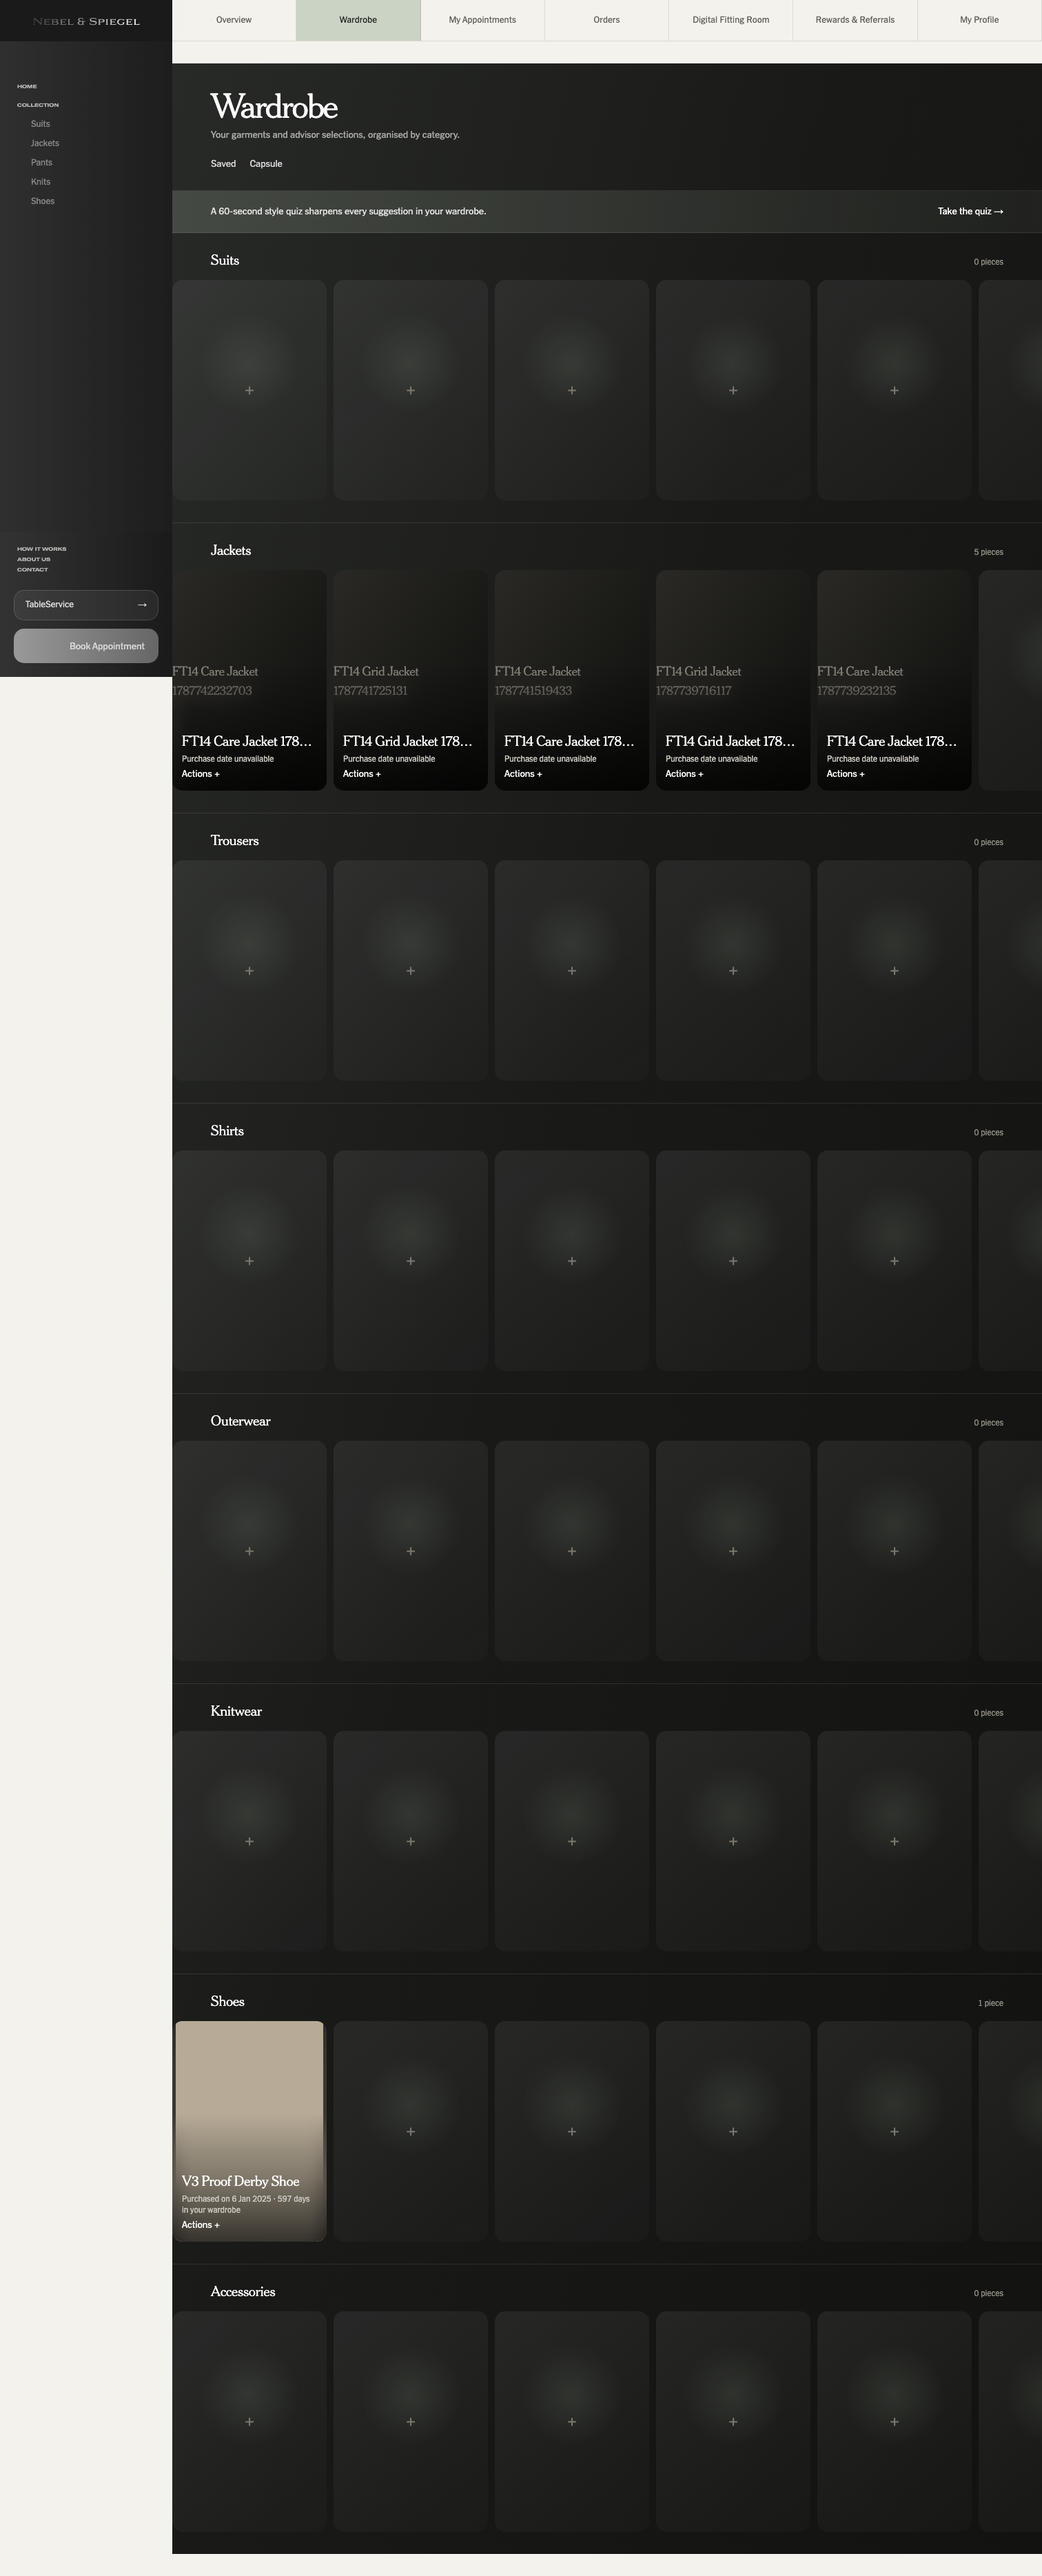
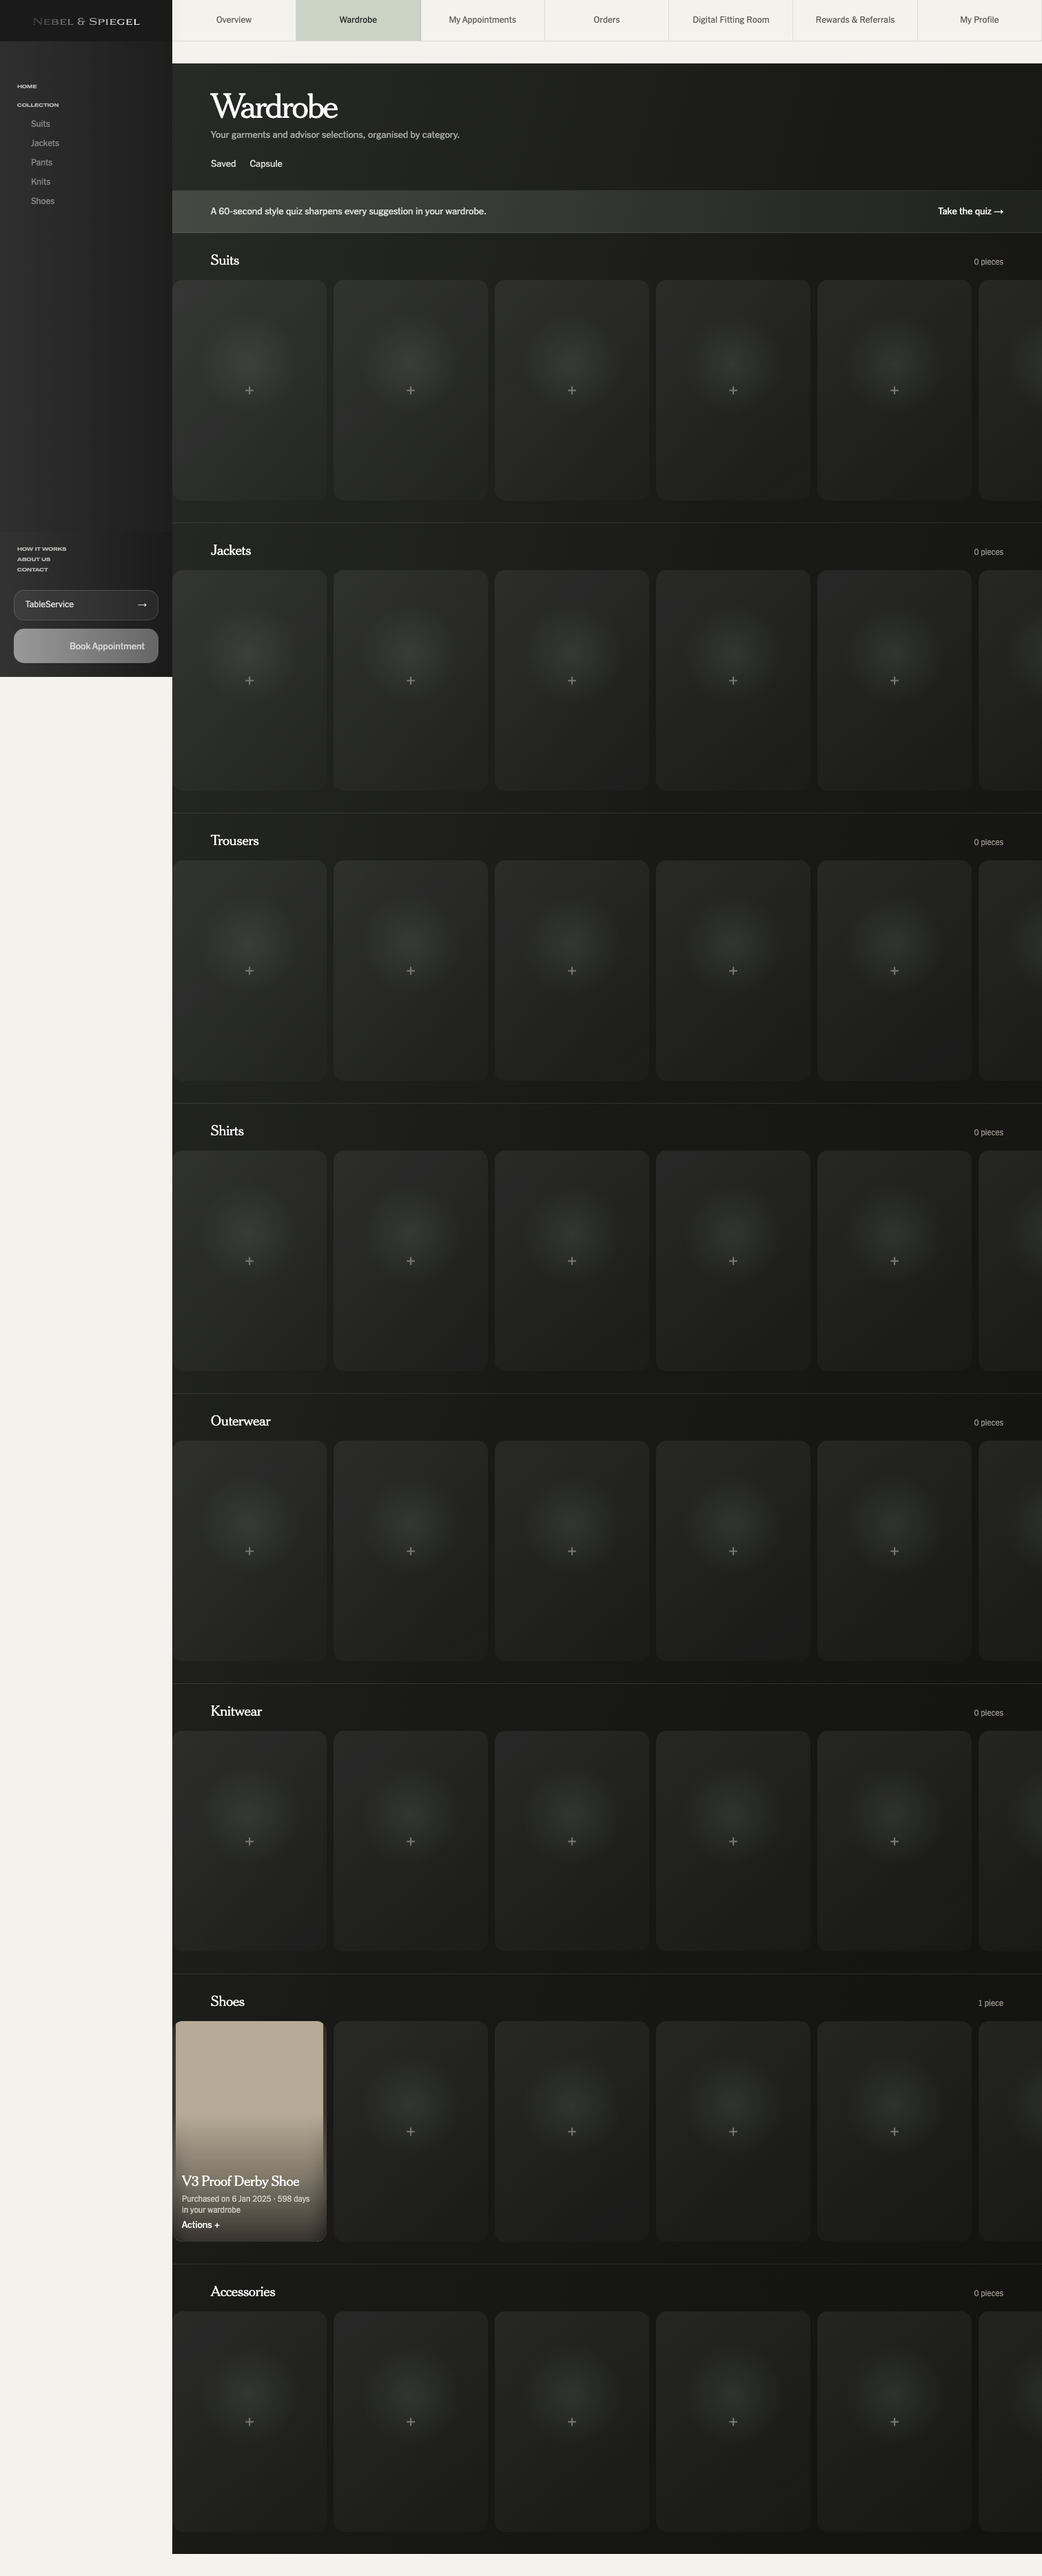
evidence(20.9): re-prove Customer Wardrobe V3 on the release branch
Cherry-picked from agent/claude-v3-review ddf84e9.

Changed region(s): [[0.1554, 0.2173, 0.6217, 0.3104], [0.6528, 0.2794, 0.7149, 0.3104], [0.8082, 0.2794, 0.8393, 0.3104]]

diff --git a/docs/PHASE.md b/docs/PHASE.md
@@ -8182,7 +8182,7 @@ setContractValue`. `corporate_exceptions.kind` gains a `repair`
     worker.
   - **Tests:** read-only browser capture and source-contract cross-check only.
 
-- [ ] **20.9 claude-customer-wardrobe-v3 — Customer Wardrobe V3 presentation**
+- [x] **20.9 claude-customer-wardrobe-v3 — Customer Wardrobe V3 presentation**
   - **Requirement IDs:** `CENV-WARDROBE-001`.
   - **Dependencies:** `20.2`.
   - **Fleet owned paths:** `apps/customer/app/(dashboard)/wardrobe/**`,
